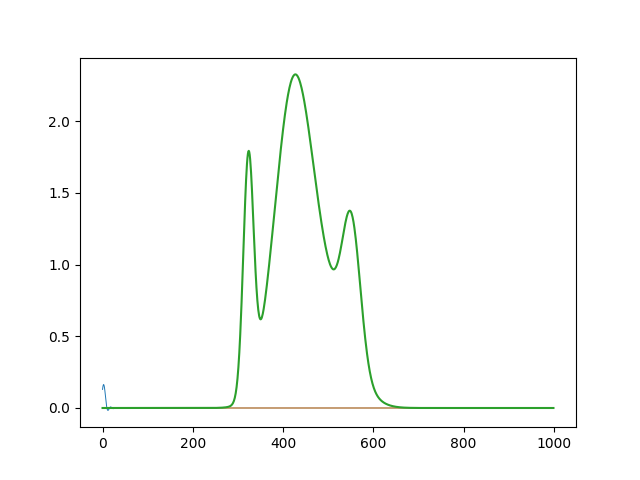
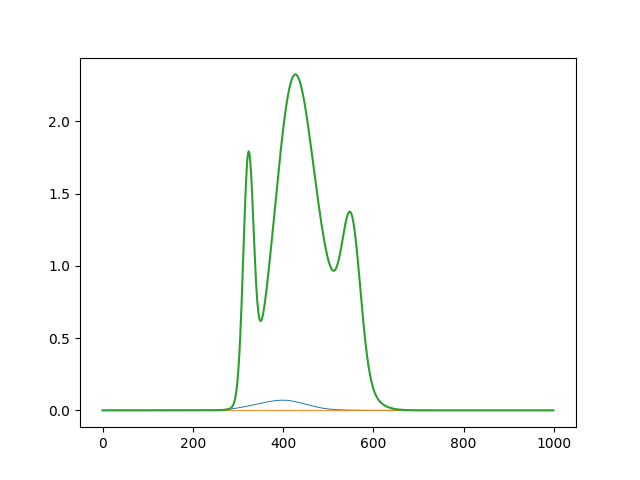
ref rician bias removal works, WF pipeline ready

diff --git a/WF_pipeline.py b/WF_pipeline.py
@@ -1,16 +1,9 @@
 import numpy as np
 from numpy import pi
-from scipy.special import erf
 from scipy.special import wofz
 import matplotlib.pyplot as plt
-from scipy.interpolate import RectBivariateSpline
-from scipy import interpolate
-from scipy import integrate
-from math import floor, ceil
+from math import floor
 from scipy.optimize import curve_fit
-from scipy.signal import deconvolve
-from scipy.ndimage import gaussian_filter, laplace
-from scipy.signal import savgol_filter
 from scipy.signal import fftconvolve
 from matplotlib import patheffects as pe
 from skimage.restoration import denoise_tv_bregman
@@ -841,7 +834,7 @@ om_probe4 = 1.85/hbar
 s_probe4 = 0.17/hbar
 pulse_probe4 = (T,A_probe4,om_probe4,s_probe4,0)
 
-A_ref = 1
+A_ref = 0.3
 om_ref = 1.55/hbar
 s_ref = 0.005/hbar
 pulse_ref = (0*T,A_ref,om_ref,s_ref,0)
@@ -855,14 +848,26 @@ refprobes = tuple(list(refs) + list(probes))
 ### GENERATE SIGNAL
 ###
 
-amplit_tot_0 = Amplitude(xuvs,refprobes,E)
+ifnoise = True
+rng = np.random.default_rng()
+alpha = 0.1e-2
+b = 1
 
+# Synthetic baseline with known spectra
+om_probe = (E/hbar - E_lo/hbar + 0.1 + E_span/hbar/N_E/2 * ((N_E-1) % 2))[0,:]
+sp_probe = sp_tot(probes,om_probe)
+sp_ref = sp_tot(refs,om_probe)
+om_xuv = (E/hbar - E_span/hbar/2 - 0.1)[0,:]
+sp_xuv = sp_tot(xuvs,om_xuv)
+
+synth_bsln = np.abs(synth_baseline(sp_probe,sp_xuv,om_probe,om_xuv,T))**2
+synth_bsln = rng.poisson(alpha*(synth_bsln+b)).astype(float) - b
+synth_bsln_FT, _, _, _ = CFT(T_range,synth_bsln,use_window=False)
+# CHECKED - PRODUCES SAME AS 'AMPLITUDE'
+
+amplit_tot_0 = np.abs(synth_baseline(sp_probe,sp_xuv,om_probe,om_xuv,T) + synth_baseline(sp_ref,sp_xuv,om_probe,om_xuv,T*0))
 signal_clean = np.abs(amplit_tot_0)**2
 
-ifnoise = True
-
-alpha = 800
-b = 1
 
 signal_clean *= alpha
 signal_clean += b
@@ -871,13 +876,7 @@ if not ifnoise:
     signal = signal_clean.copy()
 else:
     # Apply Poisson noise assuming signal_clean contains expected values (means)
-    rng = np.random.default_rng()
     signal = rng.poisson(signal_clean).astype(float)
-
-# plot_mat(signal)
-
-# plt.plot(np.linspace(0,100,300),np.percentile(np.sqrt(signal),np.linspace(0,100,300)))
-# plt.show()
 
 ### Define SNR as 98th percentile of sqrt(signal). Semi-arbitrary definition and may not work if signal form changes
 
@@ -893,11 +892,9 @@ print("N Total = %.2e"%np.sum(signal))
 
 noise_area_Elo, noise_area_Ehi = 0.0,0.3
 
-counts_rician = np.sum(signal,axis=0)/(2.0*pi)
-
 b_est = np.mean(signal[:,floor(noise_area_Elo*N_E):floor(noise_area_Ehi*N_E)])
 
-signal -= b_est
+signal -= b
 
 # import sgolay2
 # sg2 = sgolay2.SGolayFilter2(window_size=13,poly_order=3)
@@ -908,69 +905,6 @@ plot_mat(signal)
 amplit_tot_FT, OM_T, em_lo, em_hi = CFT(T_range,signal,use_window=False)
 
 ###
-### RICIAN BIAS REMOVAL
-###
-
-# nu = np.abs(amplit_tot_FT)
-# r = np.abs(amplit_tot_FT)
-
-# # from scipy.special import i0,i1
-
-# # for j in range(N_E):
-# #     for _ in range(10):
-# #         nu[:,j] = r[:,j] * i1(2*r[:,j]*nu[:,j]/counts_rician[j]) / i0(2*r[:,j]*nu[:,j]/counts_rician[j])
-
-# #     if j%100==0:
-# #         print(j)
-
-# # nu[N_T//2,:] = np.sqrt(np.maximum(0,(r[N_T//2,:])**2-counts_rician))
-
-# # plot_mat(nu)
-
-# SPD = np.abs(amplit_tot_FT)**2
-# phase = np.angle(amplit_tot_FT)
-
-# AMPL_est = np.sqrt(np.maximum(1e-20,SPD - counts_rician))
-# amplit_tot_FT = AMPL_est*np.exp(1j*phase)
-
-# # plt.plot(SPD[0,:])
-# # plt.plot(counts_rician)
-# # plt.show()
-
-# plot_mat(np.clip(amplit_tot_FT,0,500))
-
-# amp = np.abs(amplit_tot_FT)
-# phase = np.angle(amplit_tot_FT)
-
-
-# # amp2 = denoise_tv_bregman(amp,weight=0.1)
-# # amplit_tot_FT = amp2 * np.exp(1j*phase)
-
-# plot_mat(np.clip(amplit_tot_FT,0,500))
-
-# plot_mat(amplit_tot_FT2 - amplit_tot_FT)
-
-###
-### CONTROL SAMPLE - DECONVOLUTION USING EXACT DATA
-###
-
-# Synthetic baseline with known spectra
-om_probe = (E/hbar - E_lo/hbar + 0.1 + E_span/hbar/N_E/2 * ((N_E-1) % 2))[0,:]
-sp_probe = sp_tot(probes,om_probe)
-sp_ref = sp_tot(refs,om_probe)
-
-
-om_xuv = (E/hbar - E_span/hbar/2 - 0.1)[0,:]
-sp_xuv = sp_tot(xuvs,om_xuv)
-
-# synth_bsln = np.abs(synth_baseline(sp_probe,sp_xuv,om_probe,om_xuv,T) + synth_baseline(sp_ref,sp_xuv,om_probe,om_xuv,T*0))**2
-synth_bsln = np.abs(synth_baseline(sp_probe,sp_xuv,om_probe,om_xuv,T))**2
-synth_bsln_FT, _, _, _ = CFT(T_range,synth_bsln,use_window=False)
-# CHECKED - PRODUCES SAME AS 'AMPLITUDE'
-
-# sp_rec = reconstruct_WirtFlow(synth_bsln,sp_probe,sp_xuv,om_probe,om_xuv,T)
-
-###
 ### DETRENDING - SEPARATING PROBE AND REF ZERO FREQ COMPONENT 
 ###
 
@@ -979,118 +913,18 @@ slice_fracts = (0.5*(1 - em_axis_mid_reach/em_hi), 0.5*(1 + em_axis_mid_reach/em
 
 amplit_tot_FT_mid, em_axis_mid, i0, i1 = extract_midslice(amplit_tot_FT, slice_fracts, hbar*OM_T[:,0])
 
-### Control
-signal_probe = np.abs(Amplitude(xuvs,probes,E))**2
-
-signal_probe *= alpha
-signal_probe += b
-signal_probe = rng.poisson(signal_probe).astype(float)
-signal_probe -= b_est
-
-signal_probe_FT, OM_T, em_lo, em_hi = CFT(T_range,signal_probe,use_window=False)
-signal_probe_FT_mid, em_axis_mid, i0, i1 = extract_midslice(signal_probe_FT, slice_fracts, hbar*OM_T[:,0])
-
-sig_probe_reconstructed_0,_,_,_ = CFT(T_range,signal_probe_FT,use_window=False,inverse=True)
-###
-
-plot_mat(signal_probe_FT)
-
-ilo = floor(0.65*N_T)
-rice_bias = np.mean(np.abs(signal_probe_FT[ilo:,:])**2,axis=0)
-s_rice_bias = np.sum(signal_probe + b_est,axis=0)
-
-plt.plot(rice_bias)
-plt.plot(s_rice_bias)
-plt.show()
-
-print(np.mean(s_rice_bias/rice_bias),np.sqrt(np.var(s_rice_bias/rice_bias)))
-
-###
-signal_probe = np.abs(Amplitude(xuvs,refs,E))**2
-
-signal_probe *= alpha
-signal_probe += b
-signal_probe = rng.poisson(signal_probe).astype(float)
-signal_probe -= b_est
-
-signal_probe_FT, OM_T, em_lo, em_hi = CFT(T_range,signal_probe,use_window=False)
-signal_probe_FT_mid, em_axis_mid, i0, i1 = extract_midslice(signal_probe_FT, slice_fracts, hbar*OM_T[:,0])
-
-sig_probe_reconstructed_0,_,_,_ = CFT(T_range,signal_probe_FT,use_window=False,inverse=True)
-# ###
-
-# plot_mat(signal_probe_FT)
-
-# ilo = floor(0.65*N_T)
-# rice_bias2 = np.mean(np.abs(signal_probe_FT[ilo:,:])**2,axis=0)
-# s_rice_bias2 = np.sum(signal_probe + b_est,axis=0)
-
-# plt.plot(rice_bias)
-# plt.plot(s_rice_bias2)
-# plt.show()
-
-# print(np.mean(s_rice_bias2/rice_bias),np.sqrt(np.var(s_rice_bias2/rice_bias)))
-
-# ###
-# signal_probe = np.abs(Amplitude(xuvs,refprobes,E))**2
-
-# signal_probe *= alpha
-# signal_probe += b
-# signal_probe = rng.poisson(signal_probe).astype(float)
-# signal_probe -= b_est
-
-# signal_probe_FT, OM_T, em_lo, em_hi = CFT(T_range,signal_probe,use_window=False)
-# signal_probe_FT_mid, em_axis_mid, i0, i1 = extract_midslice(signal_probe_FT, slice_fracts, hbar*OM_T[:,0])
-
-# sig_probe_reconstructed_0,_,_,_ = CFT(T_range,signal_probe_FT,use_window=False,inverse=True)
-# ###
-
-# plot_mat(signal_probe_FT)
-
-# ilo = floor(0.65*N_T)
-# rice_bias3 = np.mean(np.abs(signal_probe_FT[ilo:,:])**2,axis=0)
-# s_rice_bias3 = np.sum(signal_probe + b_est,axis=0)
-
-# plt.plot(rice_bias)
-# plt.plot(s_rice_bias3)
-# plt.show()
-
-# print(np.mean(s_rice_bias3/rice_bias),np.sqrt(np.var(s_rice_bias3/rice_bias)))
-
-# plt.plot(rice_bias,label="probe")
-# plt.plot(rice_bias2,label="ref")
-# plt.plot(rice_bias3,label="refprobe")
-# plt.plot(rice_bias3-rice_bias2,label="tot - ref")
-# plt.legend()
-# plt.show()
-
-# plt.plot(s_rice_bias,label="probe")
-# plt.plot(s_rice_bias2,label="ref")
-# plt.plot(s_rice_bias3,label="refprobe")
-# plt.plot(s_rice_bias3-s_rice_bias2+N_T,label="tot - ref")
-# plt.legend()
-# plt.show()
-
-
-mask_em = 0.86
-mask_frac = 0.69
-
-N_em = np.size(em_axis_mid)
-i_mask_em = floor(0.5*(1-(mask_em/em_axis_mid_reach))*N_em)
-
-# amplit_tot_FT_mid[0:i_mask_em,0:floor(mask_frac*N_E)] = 0
-# amplit_tot_FT_mid[N_em-i_mask_em+1:N_em,0:floor(mask_frac*N_E)] = 0
-
 amplit_tot_FT_mid_detrended, spike_only, spike_row_mid = detrend_spike(amplit_tot_FT_mid,em_axis_mid,0,2,plot=False)
 
 # Zero-pad the detrended mid-band to the full (ω, E) grid
 amplit_tot_FT_detrended_full = np.copy(amplit_tot_FT)
 amplit_tot_FT_detrended_full[i0:i1, :] = amplit_tot_FT_mid_detrended
 
-sideband_lo, sideband_hi = floor(0.37*N_T), floor(0.63*N_T)
+# Extent the poissonian noise with rician bias
+sideband_lo, sideband_hi = floor(0.30*N_T), floor(0.7*N_T)
 amplit_tot_FT_detrended_full[sideband_lo:i0,:] = amplit_tot_FT[0:i0-sideband_lo,:]
 amplit_tot_FT_detrended_full[i1:sideband_hi,:] = amplit_tot_FT[N_T-sideband_hi+i1:,:]
 
+# Remove rician bias
 avg_lim1 = floor(0.28*N_T)
 avg_lim2 = floor(0.72*N_T)
 
@@ -1103,24 +937,14 @@ amplit_tot_FT_detrended_full = amp * np.exp(1j*phase)
 
 sig_probe_reconstructed,_,_,_ = CFT(T_range,amplit_tot_FT_detrended_full,use_window=False,inverse=True)
 
-plot_mat(amplit_tot_FT_detrended_full)
-plot_mat(signal_probe_FT)
-
-plot_mat(sig_probe_reconstructed_0)
 plot_mat(sig_probe_reconstructed)
+plot_mat(synth_bsln)
 
-plt.plot(np.mean(np.abs(amplit_tot_FT_detrended_full[0:100,:]),axis=0))
-plt.plot(np.mean(np.abs(signal_probe_FT[0:100,:]),axis=0))
-plt.plot(tot_rician/100)
-plt.show()
+plot_mat((sig_probe_reconstructed - synth_bsln)/np.max(sig_probe_reconstructed))
 
-### Check quality of detrending
-
-meas_baseline = np.sqrt(np.abs(sig_probe_reconstructed))
-analytic_bsln = np.abs(Amplitude(xuvs,probes,E))**2
-analytic_bsln_FT,_,_,_ = CFT(T_range,analytic_bsln,use_window=False)
-
-# plot_mat(analytic_bsln_FT - amplit_tot_FT_detrended_full)
+###
+### XUV PEAK
+###
 
 spike_only = spike_only[spike_row_mid,:]
 
@@ -1159,15 +983,6 @@ plt.show()
 
 ### Prepare
 
-meas_baseline = meas_baseline**2
-meas_baseline = meas_baseline*np.max(synth_bsln)/np.max(meas_baseline)
-
-# meas_baseline = sig_probe_reconstructed_0 * np.max(synth_bsln)/np.max(sig_probe_reconstructed_0)
-
-plot_mat(meas_baseline)
-plot_mat(synth_bsln)
 
 
-plot_mat((meas_baseline - synth_bsln)/np.max(meas_baseline))
-
-sp_rec = reconstruct_WirtFlow(meas_baseline,sp_probe,spike_only,om_probe,om_xuv,T,n_power_iter=50,n_main_iter=10000,mu_step_max=0.01,I_warmup=300,ifplot=50)
+sp_rec = reconstruct_WirtFlow(sig_probe_reconstructed,sp_probe,spike_only,om_probe,om_xuv,T,n_power_iter=50,n_main_iter=10000,mu_step_max=0.01,I_warmup=300,ifplot=50)
